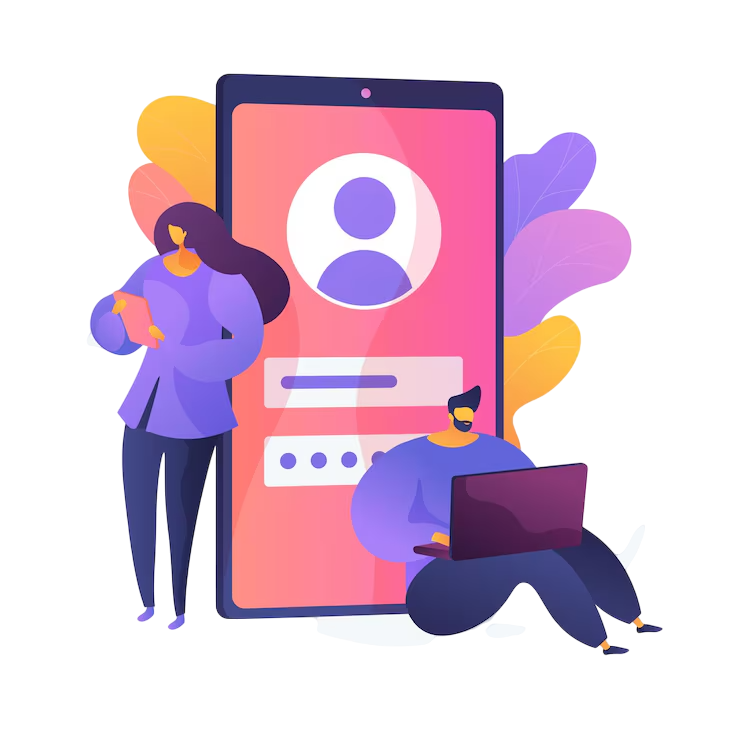
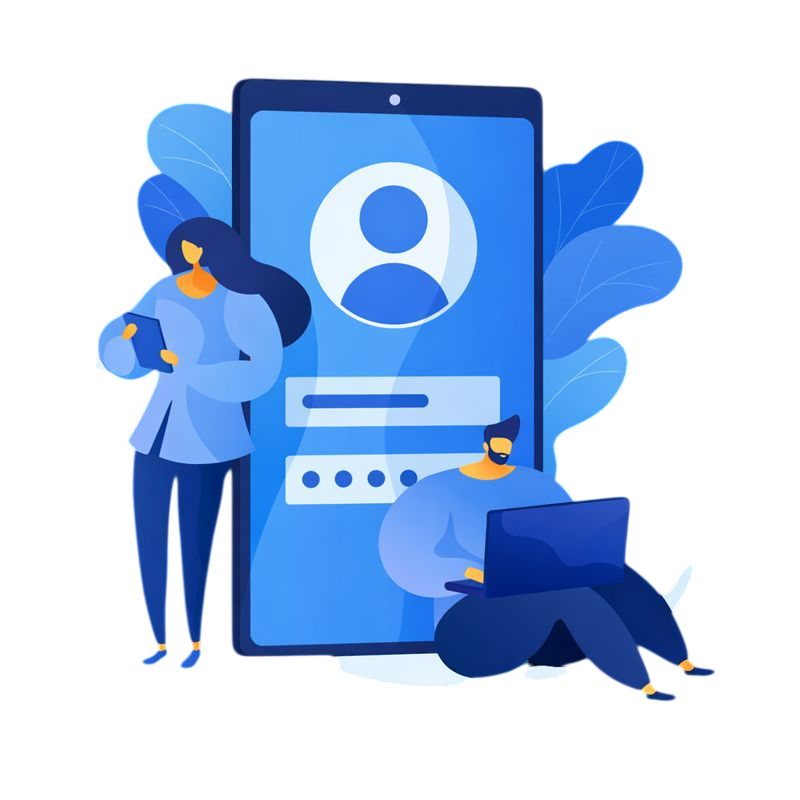
update css, UI

diff --git a/frontend/src/index.css b/frontend/src/index.css
@@ -6,207 +6,158 @@
 
 @layer base {
   :root {
-    /* Base colors - soft pastels */
-    --background: 0 0% 100%; /*violet-50*/
-    --foreground: 217.2 32.6% 17.5%; /* slate-800 */
+    /* Base */
+    --background: 0 0% 100%;
+    --foreground: 222 47% 11%; /* slate-900 */
 
-    /* Card system */
-    --card: 250 100% 99%;
-    --card-foreground: 217.2 32.6% 17.5%;
+    /* Card */
+    --card: 210 100% 99%;
+    --card-foreground: 222 47% 11%;
 
-    /* Popover system */
-    --popover: 250 100% 99%;
-    --popover-foreground: 240 15% 15%;
+    /* Popover */
+    --popover: 210 100% 99%;
+    --popover-foreground: 222 47% 11%;
 
-    /* Primary */
-    /* Tím */
-    --primary: 271 79% 47%;
-    --primary-foreground: 210 40% 96.1%; /*slate-100*/
-    /* Hồng */
-    --primary-glow: 320 100% 70%;
+    /* Primary – BLUE */
+    --primary: 217 91% 60%; /* blue-500 */
+    --primary-foreground: 210 40% 98%;
+    --primary-glow: 199 100% 70%; /* cyan */
 
-    /* Secondary - lavender */
-    --secondary: 270 50% 92%;
-    --secondary-foreground: 280 100% 40%;
+    /* Secondary – light blue */
+    --secondary: 214 95% 93%;
+    --secondary-foreground: 217 91% 45%;
 
     /* Muted */
-    --muted: 260 30% 95%;
-    --muted-foreground: 240 15% 50%;
+    --muted: 210 40% 96%;
+    --muted-foreground: 215 20% 45%;
 
-    /* Accent - cyan */
-    --accent: 180 100% 75%;
-    --accent-foreground: 240 100% 15%;
+    /* Accent – cyan */
+    --accent: 190 100% 75%;
+    --accent-foreground: 222 47% 11%;
 
-    /* Chat colors */
-    --chat-bubble-sent: 271 79% 47%;
+    /* Chat */
+    --chat-bubble-sent: 217 91% 60%;
     --chat-bubble-sent-foreground: 0 0% 100%;
     --chat-bubble-received: 0 0% 96%;
-    --chat-bubble-received-foreground: 240 15% 15%;
+    --chat-bubble-received-foreground: 222 47% 11%;
 
-    /* Status colors */
-    --online: 140 100% 50%;
+    /* Status */
+    --online: 142 71% 45%;
     --offline: 0 0% 70%;
 
-    /* Warning */
-    --warning: 37.7 92.1% 50.2%;
-    --warning-foreground: 0 0% 100%;
-
-    /* Info */
-    --info: 198.6 88.7% 48.4%;
+    /* Info / Warning / Danger */
+    --info: 199 89% 48%;
     --info-foreground: 0 0% 100%;
 
-    /* Destructive */
-    --destructive: 0 84.2% 60.2%;
+    --warning: 38 92% 50%;
+    --warning-foreground: 0 0% 100%;
+
+    --destructive: 0 84% 60%;
     --destructive-foreground: 0 0% 100%;
 
-    /* Border and input */
-    --border: 282 16% 87%;
-    --input: 260 30% 92%;
-    --ring: 271 79% 47%;
+    /* Border & input */
+    --border: 214 32% 90%;
+    --input: 214 32% 95%;
+    --ring: 217 91% 60%;
 
-    /* Design system values */
     --radius: 1rem;
 
-    /* Gradients */
+    /* Gradients – BLUE */
     --gradient-primary: linear-gradient(
       135deg,
       hsl(var(--primary)),
       hsl(var(--primary-glow))
     );
+
     --gradient-chat: linear-gradient(
       135deg,
-      hsl(280, 100%, 65%),
-      hsl(320, 100%, 70%)
+      hsl(217 91% 60%),
+      hsl(199 100% 70%)
     );
+
     --gradient-accent: linear-gradient(
       90deg,
-      hsl(var(--accent)),
-      hsl(200, 100%, 70%)
+      hsl(190 100% 75%),
+      hsl(210 100% 70%)
     );
 
     --gradient-glass: linear-gradient(
       135deg,
-      hsl(250, 100%, 98%) 0%,
-      hsl(260, 50%, 96%) 100%
+      hsl(210 100% 98%),
+      hsl(214 95% 96%)
     );
 
-    /* pattern craft */
-    --gradient-purple: radial-gradient(
+    /* Pattern */
+    --gradient-blue: radial-gradient(
       125% 125% at 50% 10%,
       hsla(0, 0%, 100%, 1) 40%,
-      hsla(262, 83%, 58%, 0.5) 100%
+      hsla(217, 91%, 60%, 0.45) 100%
     );
 
     /* Shadows */
-    --shadow-soft: 0 8px 32px -8px hsl(271 79% 47% / 0.15);
-    --shadow-glow: 0 0 40px hsl(var(--primary) / 0.3);
-    --shadow-bubble: 0 4px 20px -4px hsl(280 50% 70% / 0.2);
+    --shadow-soft: 0 8px 32px -8px hsl(217 91% 60% / 0.18);
+    --shadow-glow: 0 0 40px hsl(var(--primary) / 0.35);
+    --shadow-bubble: 0 4px 20px -4px hsl(217 70% 60% / 0.25);
 
     /* Sidebar */
     --sidebar-background: 0 0% 100%;
-
-    --sidebar-foreground: 215.3 25% 26.7%; /*slate-700*/
-
-    --sidebar-primary: 240 5.9% 10%;
-
-    --sidebar-primary-foreground: 0 0% 98%;
-
-    --sidebar-accent: 240 4.8% 95.9%;
-
-    --sidebar-accent-foreground: 240 5.9% 10%;
-
-    --sidebar-border: 220 13% 91%;
-
-    --sidebar-ring: 217.2 91.2% 59.8%;
-
-    /* Animations */
-    --transition-smooth: all 0.3s cubic-bezier(0.4, 0, 0.2, 1);
-    --transition-bounce: all 0.4s cubic-bezier(0.68, -0.55, 0.265, 1.55);
+    --sidebar-foreground: 222 47% 11%;
+    --sidebar-primary: 217 91% 60%;
+    --sidebar-primary-foreground: 0 0% 100%;
+    --sidebar-accent: 214 32% 95%;
+    --sidebar-accent-foreground: 222 47% 11%;
+    --sidebar-border: 214 32% 90%;
+    --sidebar-ring: 217 91% 60%;
   }
 
   .dark {
-    /* Dark mode - neon on dark aesthetic */
-    --background: 240 15% 18%;
-    --foreground: 214.3 31.8% 91.4%; /* slate-200 */
+    --background: 222 47% 11%;
+    --foreground: 210 40% 96%;
 
-    --card: 240 15% 12%;
-    --card-foreground: 214.3 31.8% 91.4%;
+    --card: 222 47% 9%;
+    --card-foreground: 210 40% 96%;
 
-    --popover: 240 15% 12%;
-    --popover-foreground: 250 100% 95%;
+    --popover: 222 47% 9%;
+    --popover-foreground: 210 40% 96%;
 
-    --primary: 280 100% 70%;
-    --primary-foreground: 240 15% 8%;
-    --primary-glow: 320 100% 80%;
+    --primary: 217 100% 70%;
+    --primary-foreground: 222 47% 8%;
+    --primary-glow: 199 100% 75%;
 
-    --secondary: 270 20% 20%;
-    --secondary-foreground: 280 100% 80%;
+    --secondary: 217 32% 17%;
+    --secondary-foreground: 217 100% 75%;
 
-    --muted: 240 15% 15%;
-    --muted-foreground: 240 15% 70%;
+    --muted: 222 47% 15%;
+    --muted-foreground: 215 20% 70%;
 
-    --accent: 180 100% 60%;
-    --accent-foreground: 240 15% 8%;
+    --accent: 190 100% 65%;
+    --accent-foreground: 222 47% 8%;
 
-    /* Chat bubbles in dark mode */
-    --chat-bubble-sent: 280 100% 65%;
-    --chat-bubble-sent-foreground: 0 0% 100%;
-    --chat-bubble-received: 240 15% 18%;
-    --chat-bubble-received-foreground: 250 100% 90%;
+    /* Chat */
+    --chat-bubble-sent: 217 100% 65%;
+    --chat-bubble-received: 222 47% 15%;
 
-    /* Status colors */
-    --online: 140 100% 60%;
-    --away: 45 100% 65%;
-    --offline: 0 0% 50%;
+    --border: 217 32% 22%;
+    --input: 222 47% 15%;
+    --ring: 217 100% 70%;
 
-    --destructive: 0 80% 47%;
-    --destructive-foreground: 0 0% 100%;
-
-    --border: 281 15% 25%;
-    --input: 240 15% 18%;
-    --ring: 280 100% 70%;
-
-    /* Dark mode gradients */
+    /* Dark gradients */
     --gradient-primary: linear-gradient(
       135deg,
-      hsl(280, 100%, 70%),
-      hsl(320, 100%, 80%)
+      hsl(217 100% 70%),
+      hsl(199 100% 75%)
     );
-    --gradient-chat: linear-gradient(
-      135deg,
-      hsl(280, 100%, 70%),
-      hsl(320, 100%, 75%)
-    );
-    --gradient-accent: linear-gradient(
-      90deg,
-      hsl(180, 100%, 60%),
-      hsl(200, 100%, 70%)
-    );
+
     --gradient-glass: linear-gradient(
       45deg,
-      hsl(240, 15%, 12%) 0%,
-      hsl(240, 15%, 18%) 100%
+      hsl(222 47% 9%),
+      hsl(222 47% 15%)
     );
 
-    --gradient-purple: radial-gradient(
-      125% 125% at 50% 10%,
-      hsla(0, 0%, 0%, 1) 40%,
-      hsla(310, 96%, 11%, 0.5) 100%
-    );
-
-    /* Dark shadows with glow */
-    --shadow-soft: 0 8px 32px -8px hsl(280 100% 70% / 0.25);
-    --shadow-glow: 0 0 40px hsl(var(--primary) / 0.4);
-    --shadow-bubble: 0 4px 20px -4px hsl(280 80% 50% / 0.3);
-
-    --sidebar-background: 240 5.9% 10%;
-    --sidebar-foreground: 240 4.8% 95.9%;
-    --sidebar-primary: 224.3 76.3% 48%;
-    --sidebar-primary-foreground: 0 0% 100%;
-    --sidebar-accent: 240 3.7% 15.9%;
-    --sidebar-accent-foreground: 240 4.8% 95.9%;
-    --sidebar-border: 240 3.7% 15.9%;
-    --sidebar-ring: 217.2 91.2% 59.8%;
+    /* Shadows */
+    --shadow-soft: 0 8px 32px -8px hsl(217 100% 70% / 0.3);
+    --shadow-glow: 0 0 40px hsl(var(--primary) / 0.45);
+    --shadow-bubble: 0 4px 20px -4px hsl(217 90% 60% / 0.35);
   }
 
   body {
@@ -217,7 +168,7 @@
 /* Chat App Utility Classes */
 @layer components {
   .glass {
-    @apply bg-gradient-to-br from-violet-200/10 to-pink-100/5 border-violet-300/30;
+    @apply bg-gradient-to-br from-blue-200/10 to-cyan-100/5 border-blue-300/30;
   }
 
   .dark .glass {
@@ -264,7 +215,7 @@
   }
 
   .bg-gradient-purple {
-    background: var(--gradient-purple);
+    background: var(--gradient-blue);
   }
 
   /* Shadows */

diff --git a/backend/src/controllers/authController.js b/backend/src/controllers/authController.js
@@ -133,7 +133,6 @@ export async function updateNewPassword(req, res) {
 export async function googleAuthCallback(req, res) {
     try {
         const user = req.user;
-        const accessToken = jwt.sign({ userId: user._id }, process.env.ACCESS_TOKEN_SECRET, { expiresIn: ACCESS_TOKEN_TTL });
         const refreshToken = crypto.randomBytes(64).toString('hex');
         await Session.create({
             userId: user._id,
